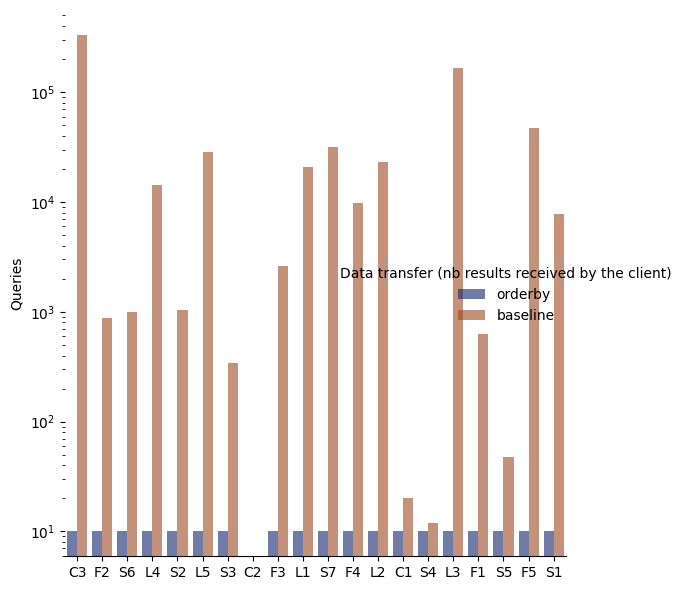
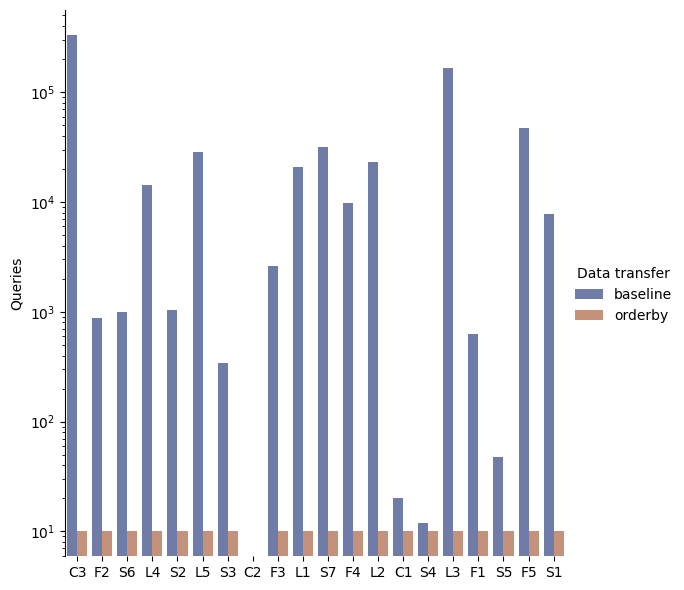
changing limits

Changed region(s): [[0.0921, 0.061, 0.9825, 0.9153]]

diff --git a/scripts/plots.py b/scripts/plots.py
@@ -25,7 +25,8 @@ def cli():
 @click.argument('output', type=click.Path())
 def execution_times(data, output):
     dataframe = read_csv(data, sep=',')
-    chart=sns.catplot(data=dataframe, kind="bar",x="query", y="execution_time",hue="engine",
+    selection=dataframe[dataframe["limit"]==10]
+    chart=sns.catplot(data=selection, kind="bar",x="query", y="execution_time",hue="engine",
         palette="dark", alpha=.6, height=6)
     chart.despine(left=True)
     chart.set_axis_labels("", "Queries")
@@ -39,13 +40,15 @@ def execution_times(data, output):
 @click.argument('output', type=click.Path())
 def data_transfer(data, output):
     dataframe = read_csv(data, sep=',')
-    chart=sns.catplot(data=dataframe, kind="bar",x="query", y="nb_results",hue="engine",
+    selection=dataframe[dataframe["limit"]==10]
+
+    chart=sns.catplot(data=selection, kind="bar",x="query", y="nb_results",hue="engine",
         palette="dark", alpha=.6, height=6)
-    chart.despine(left=True)
+    chart.despine(bottom=True)
     chart.set_axis_labels("", "Queries")
     chart.set(yscale="log")
-    chart.legend.set_title("Data transfer (nb results received by the client)")
-
+    chart.legend.set_title("Data transfer")
+#    plt.legend(loc='upper left')
     chart.savefig(output)
 
 @cli.command()
@@ -53,11 +56,30 @@ def data_transfer(data, output):
 @click.argument('output', type=click.Path())
 def nb_calls(data, output):
     dataframe = read_csv(data, sep=',')
-    chart=sns.catplot(data=dataframe, kind="bar",x="query", y="nb_calls",hue="engine",
+    selection=dataframe[dataframe["limit"]==10]
+
+    chart=sns.catplot(data=selection, kind="bar",x="query", y="nb_calls",hue="engine",
         palette="dark", alpha=.6, height=6)
     chart.despine(left=True)
-    chart.set_axis_labels("", "Queries")
+    chart.set_axis_labels("queries", "nb calls")
     chart.legend.set_title("Number of calls")
+    chart.set(yscale="log")
+
+    chart.savefig(output)
+
+
+@cli.command()
+@click.argument('data', type=click.Path(exists=True, file_okay=True, dir_okay=False))
+@click.argument('output', type=click.Path())
+def change_limit(data, output):
+    dataframe = read_csv(data, sep=',')
+    selection=dataframe[dataframe["engine"]=="orderby"]
+
+    chart=sns.catplot(data=selection, kind="bar",x="query", y="execution_time",hue="limit",
+        palette="dark", alpha=.6, height=6)
+    chart.despine(left=True)
+    chart.set_axis_labels("times in s", "Queries")
+    chart.legend.set_title("Changing limits")
     chart.set(yscale="log")
 
     chart.savefig(output)

diff --git a/scripts/query_sage.py b/scripts/query_sage.py
@@ -10,6 +10,7 @@ from time import time
 from json import dumps
 from statistics import mean
 from utils import list_files, basename
+from pathlib import Path
 
 coloredlogs.install(level='INFO', fmt='%(asctime)s - %(levelname)s %(message)s')
 logger = logging.getLogger(__name__)
@@ -25,12 +26,21 @@ logger = logging.getLogger(__name__)
     help="The file in which query execution statistics will be stored.")
 @click.option("--orderby/--no-orderby", default=False,
     help="computes orderby locally.")
-def execute(query, endpoint, default_graph, output, measures,orderby):
+@click.option("--limit", type=int, default=10,
+    help="Limit of a of SPARQL query.")
+def execute(query, endpoint, default_graph, output, measures,orderby,limit):
 
     orderclause=""
     limitclause=""
     querys=open(query).read()
+    query_name=Path(query).stem
+    engine="orderby"
 
+    if limit is not None:
+        m = re.search('(.*)order by(.*) limit (.*)', querys,re.DOTALL)
+        limitclause=int(m.group(3))
+        querys=f'{m.group(1)} order by {m.group(2)} limit {limit}'
+        print(f"Changing limit from {limit}")
 
     if orderby is True:
         print(f"removing orderby clause in {querys}")
@@ -41,6 +51,7 @@ def execute(query, endpoint, default_graph, output, measures,orderby):
         #keep order expr.
         orderclause=m.group(2)
         limitclause=int(m.group(3))
+        engine="baseline"
 
     headers = {
         "accept": "text/html",
@@ -101,7 +112,7 @@ def execute(query, endpoint, default_graph, output, measures,orderby):
         with open(measures, 'w') as measures_file:
             avg_loading_time = mean(loading_times)
             avg_resume_time = mean(resume_times)
-            measures_file.write(f'{execution_time},{nb_calls},{nb_results},{avg_loading_time},{avg_resume_time}')
+            measures_file.write(f'{query_name},{engine},{limit},{execution_time},{nb_calls},{nb_results},{avg_loading_time},{avg_resume_time}')
     logger.info(f'Query complete in {execution_time}s with {nb_calls} HTTP calls. {nb_results} solution mappings !')
 
 
